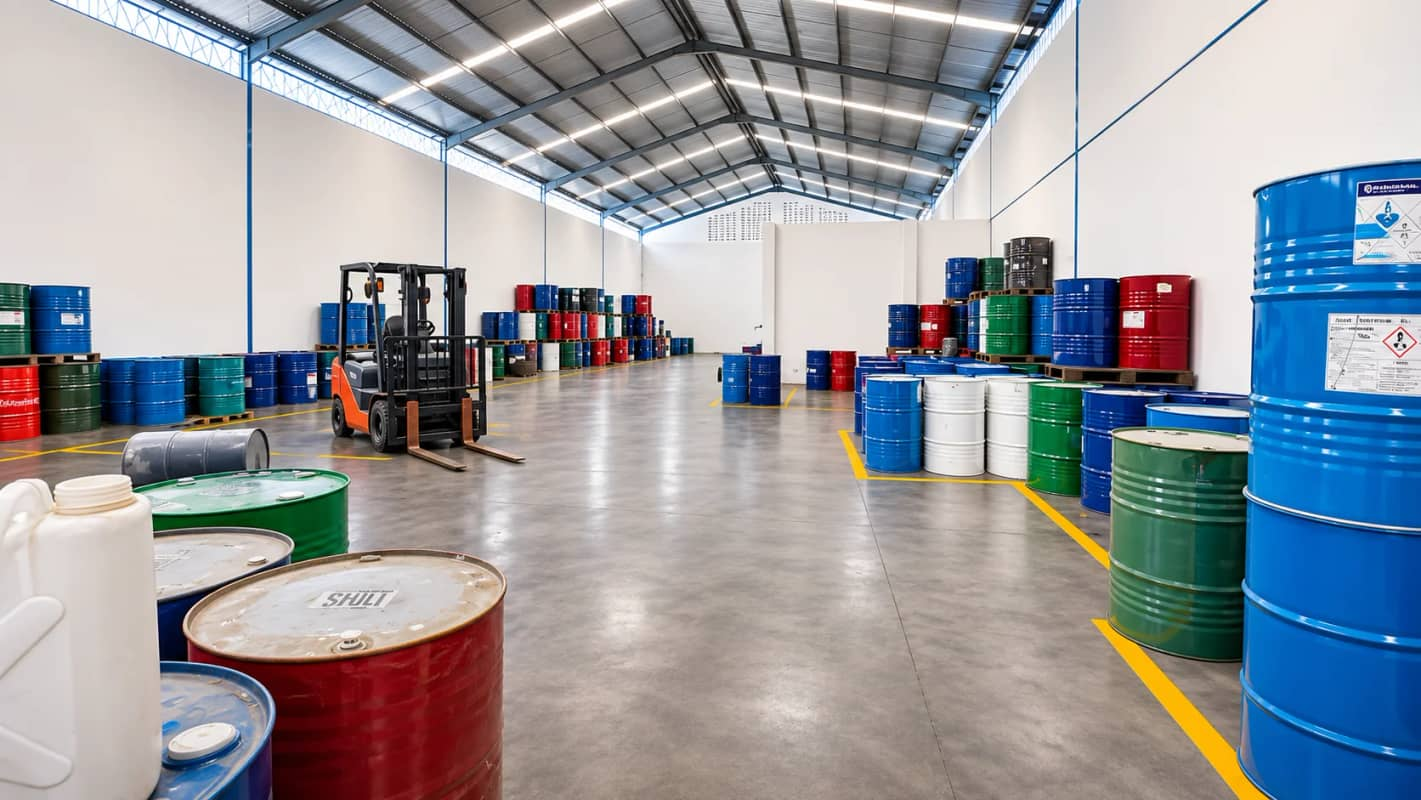
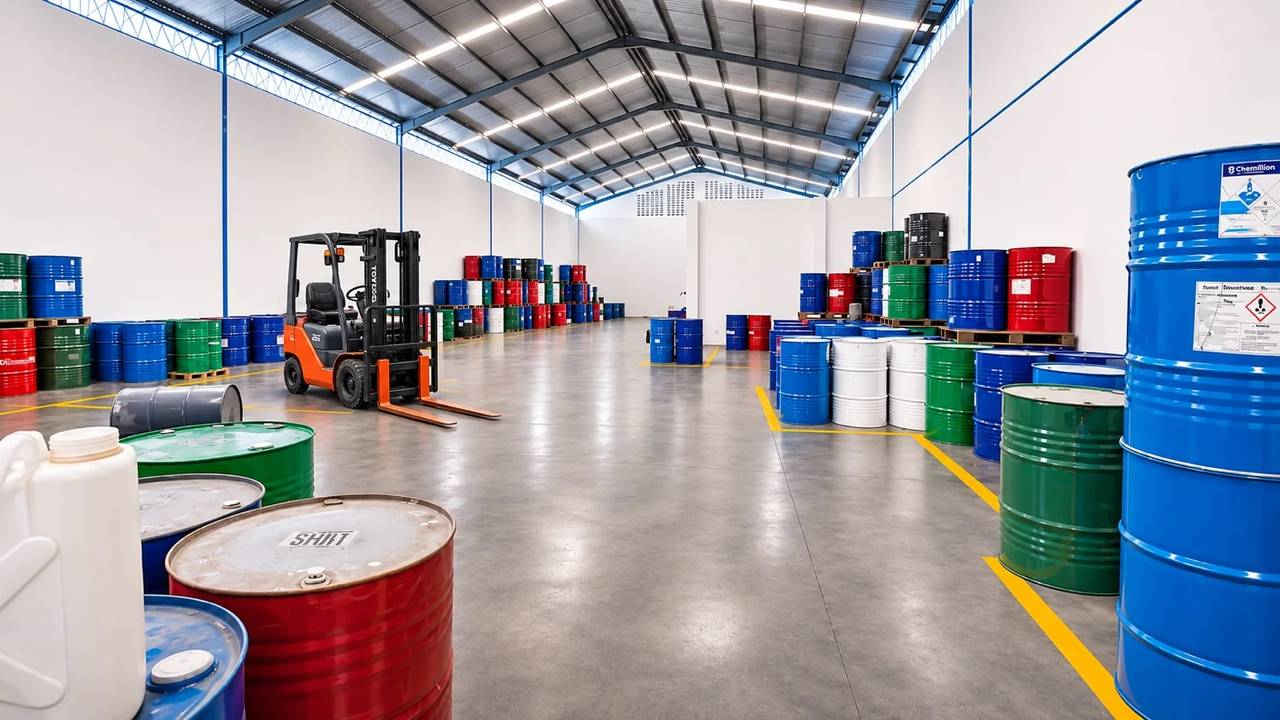
Update four company photos with the new shots
- Indoor storage room, office reception, forklift and the main warehouse
  aisle get new files under the same names, so every page that shows
  them (Home, About, Solutions, Contact, solution cards) keeps them in
  the same place.
- Progressive JPEGs of at most 125 KB, like the other photos; the two
  busy warehouse shots are 1280 px wide to keep their quality.
- The forklift photo now shows a parked forklift, so its alt text (all
  three languages) and focal point describe the new shot.
- A migration puts the new files into the existing Media Library
  records. reuploadCompanyPhotos can now take a list of photos and also
  refreshes alt text in every language and the focal point.

Claude-Session: https://claude.ai/code/session_01TyaVFja9br3JT2bmeccCg2

diff --git a/src/content/companyPhotos.ts b/src/content/companyPhotos.ts
@@ -92,11 +92,11 @@ const PHOTOS = {
   forklift: {
     file: 'forklift-moving-chemical-drum.jpg',
     alt: {
-      en: 'Forklift carrying a chemical drum across the Chemillion warehouse floor',
-      id: 'Forklift mengangkut drum bahan kimia di lantai gudang Chemillion',
-      zh: '叉车在 Chemillion 仓库内搬运化学品桶',
+      en: 'Forklift on the Chemillion warehouse floor, with chemical drums stored on pallets along the wall',
+      id: 'Forklift di lantai gudang Chemillion, dengan drum bahan kimia tersimpan di atas palet di sepanjang dinding',
+      zh: 'Chemillion 仓库内的叉车，墙边托盘上存放着化学品桶',
     },
-    focalX: 45,
+    focalX: 62,
   },
   stackedDrums: {
     file: 'stacked-solvent-drums-on-pallets.jpg',
@@ -220,14 +220,25 @@ const upload = async (payload: Payload): Promise<Ids> => {
 }
 
 /**
- * Puts the right file back into every company photo in the Media Library. The first upload on Vercel stored the
- * building photo in all 16 records; the records, alt text and page placements were right, only the files were not.
+ * Puts the right file back into company photos in the Media Library, and their alt text in every language and focal
+ * point. Without `keys` it does all of them. The first upload on Vercel stored the building photo in all 16 records;
+ * the records, alt text and page placements were right, only the files were not.
  */
-export const reuploadCompanyPhotos = async (payload: Payload) => {
+export const reuploadCompanyPhotos = async (payload: Payload, keys?: Key[]) => {
   let fixed = 0
-  for (const photo of Object.values(PHOTOS) as Photo[]) {
+  for (const photo of (keys ?? (Object.keys(PHOTOS) as Key[])).map((key) => PHOTOS[key] as Photo)) {
     for (const doc of await findPhotoDocs(payload, photo.file)) {
-      await payload.update({ collection: 'media', id: doc.id, locale: 'en', data: { alt: photo.alt.en }, filePath: path.join(DIR, photo.file), context: { disableRevalidate: true } })
+      await payload.update({
+        collection: 'media',
+        id: doc.id,
+        locale: 'en',
+        data: { alt: photo.alt.en, focalX: photo.focalX ?? 50, focalY: photo.focalY ?? 50 },
+        filePath: path.join(DIR, photo.file),
+        context: { disableRevalidate: true },
+      })
+      for (const locale of LOCALES.filter((l) => l !== 'en')) {
+        await payload.update({ collection: 'media', id: doc.id, locale, data: { alt: photo.alt[locale] }, context: { disableRevalidate: true } })
+      }
       fixed++
     }
   }

diff --git a/src/migrations/index.ts b/src/migrations/index.ts
@@ -8,6 +8,7 @@ import * as migration_20261106_033000_website_copy from './20261106_033000_websi
 import * as migration_20261115_090000_company_photos from './20261115_090000_company_photos';
 import * as migration_20261115_150000_fix_company_photo_files from './20261115_150000_fix_company_photo_files';
 import * as migration_20261115_170000_compress_company_photos from './20261115_170000_compress_company_photos';
+import * as migration_20261118_090000_updated_company_photos from './20261118_090000_updated_company_photos';
 
 export const migrations = [
   {
@@ -59,5 +60,10 @@ export const migrations = [
     up: migration_20261115_170000_compress_company_photos.up,
     down: migration_20261115_170000_compress_company_photos.down,
     name: '20261115_170000_compress_company_photos'
+  },
+  {
+    up: migration_20261118_090000_updated_company_photos.up,
+    down: migration_20261118_090000_updated_company_photos.down,
+    name: '20261118_090000_updated_company_photos'
   },
 ];

diff --git a/src/migrations/20261118_090000_updated_company_photos.ts b/src/migrations/20261118_090000_updated_company_photos.ts
@@ -1,0 +1,15 @@
+import type { MigrateDownArgs, MigrateUpArgs } from '@payloadcms/db-postgres'
+import { reuploadCompanyPhotos } from '../content/companyPhotos'
+
+/**
+ * Puts four new company photos (src/content/photos) into their existing Media Library records: the indoor storage
+ * room, the office reception, the forklift and the main warehouse aisle. The records keep their place on every page;
+ * only the files change, plus the forklift's alt text and focal point, which now describe the new shot.
+ */
+export async function up({ payload }: MigrateUpArgs): Promise<void> {
+  await reuploadCompanyPhotos(payload, ['indoorStorage', 'reception', 'forklift', 'warehouseForklift'])
+}
+
+export async function down(_args: MigrateDownArgs): Promise<void> {
+  // Content only: the earlier files are not kept.
+}
